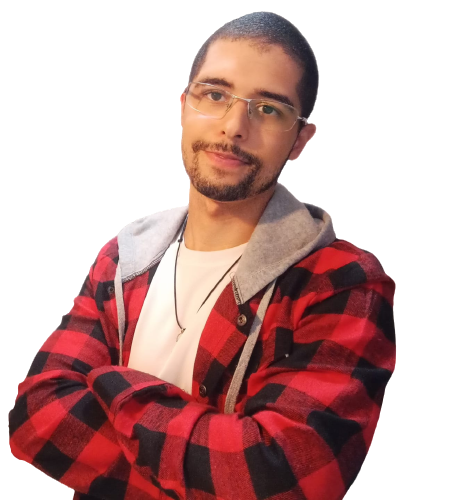
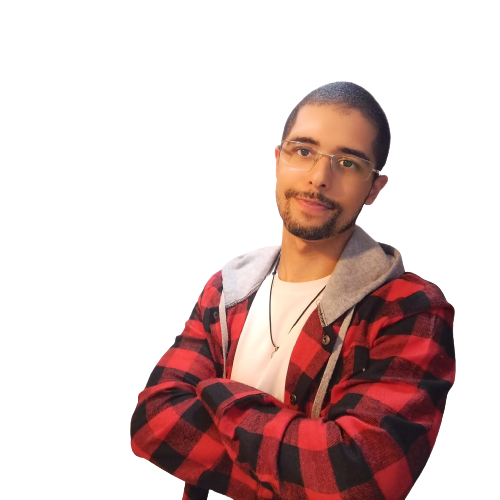
correçao img about

diff --git a/css/style.css b/css/style.css
@@ -246,17 +246,17 @@ img {
   animation      : topBounce 3s ease-in-out infinite;
 }
 
-.effect-3 {
-  position        : fixed;
-  height          : 55px;
-  width           : 55px;
-  left            : 7.5%;
-  top             : 1.5%;
-  border-radius   : 50%;
-  background      : linear-gradient(45deg, transparent, transparent 40%, #e5f403);
-  /* border       : 25px solid var(--skin-color); */
-  animation       : animate 10s linear infinite;
-}
+/* .effect-3 {
+  position     : fixed;
+  height       : 55px;
+  width        : 55px;
+  left         : 7.5%;
+  top          : 1.5%;
+  border-radius: 50%;
+  background   : linear-gradient(45deg, transparent, transparent 40%, #e5f403);
+  border       : 25px solid var(--skin-color);
+  animation    : animate 10s linear infinite;
+} */
 
 @keyframes animate {
   0% {
@@ -487,23 +487,48 @@ img {
 
 }
 
+
+
+
+
 .header .logo {
   position: absolute;
   left    : 8%;
+
 }
 
 .header .logo a {
   position      : fixed;
   display       : inline-block;
   text-align    : center;
-  line-height   : 36px;
-  height        : 40px;
-  width         : 40px;
+  line-height   : 2.5rem;
+  height        : 2.5rem;
+  width         : 2.5rem;
   font-size     : 24px;
   color         : var(--text-black-700);
   border-radius : 50%;
   font-weight   : 600;
   text-transform: uppercase;
+  font-weight   : bold;
+  box-shadow    :
+    0px 0px 20px 5px var(--skin-color),
+    0px 0px 0px 5px #fff9,
+    7px 7px 20px 5px #0002,
+    4px 4px 5px 5px #0001,
+    inset 0px 0px 0px 0px #fff9,
+    inset 0px 0px 0px 0px #0001,
+    inset 0px 0px 0px 0px #fff9, inset 0px 0px 0px 0px #0001;
+}
+
+.header .logo a:hover {
+  box-shadow:
+    0px 0px 20px 5px var(--skin-color),
+    0px 0px 0px 5px #fff9,
+    7px 7px 20px 5px #0002,
+    4px 4px 5px 5px #0001,
+    inset 0px 0px 0px 0px #fff9,
+    inset 0px 0px 0px 0px #0001,
+    inset 0px 0px 0px 0px #fff9, inset 0px 0px 0px 0px #0001;
 }
 
 header .nav-bar {
@@ -807,17 +832,18 @@ header .hamburger-btn:active {
 /*----------------about section-----------*/
 
 .about-section {
-  position: relative;
-
+  position  : relative;
   padding   : 80px 0 0;
   min-height: 100vh;
 }
 
 .about-section .about-img {
 
-  flex     : 0 0 40%;
-  max-width: 40%;
-  padding  : 0 1rem;
+  flex: 0 0 40%;
+
+  max-width: 60%;
+
+  padding: 0 1rem;
 }
 
 .about-section .about-img .img-box {
@@ -825,8 +851,8 @@ header .hamburger-btn:active {
 }
 
 .about-section .about-img .img-box img {
-  width        : 100%;
-  border       : 10px solid transparent;
+  width: 100%;
+
   border-radius: .3rem;
 }
 

diff --git a/index.html b/index.html
@@ -36,14 +36,13 @@
     <header class="header">
       <div class="container">
         <div class="row justify-content-between">
-          <div class="effect effect-3 outer-shadow">
-          </div>
+       
                   
           <div class="logo">
-            <a href="index.html">D</a>
+            <a class=" active click"href="index.html">D</a>
           </div>
         <!-------Menu de navegaçao principal start------>
-          <nav class="nav-bar oter-shadow">
+          <nav class="nav-bar outer-shadow">
             <a href="#home" class="link-item inner-shadow active click">Home</a>
             <a href="#about" class="link-item outer-shadow hover-in-shadow">Sobre mim</a>
             <a href="#services" class="link-item outer-shadow hover-in-shadow">Serviços</a>
@@ -126,7 +125,7 @@
           <div class="about-img row3">
             <div class="img-box inner-shadow">
               <img
-                src="img/Img2.jpeg"
+                src="img/img2.png"
                 class="outer-shadow"
                 alt="profile-pic"
               />
